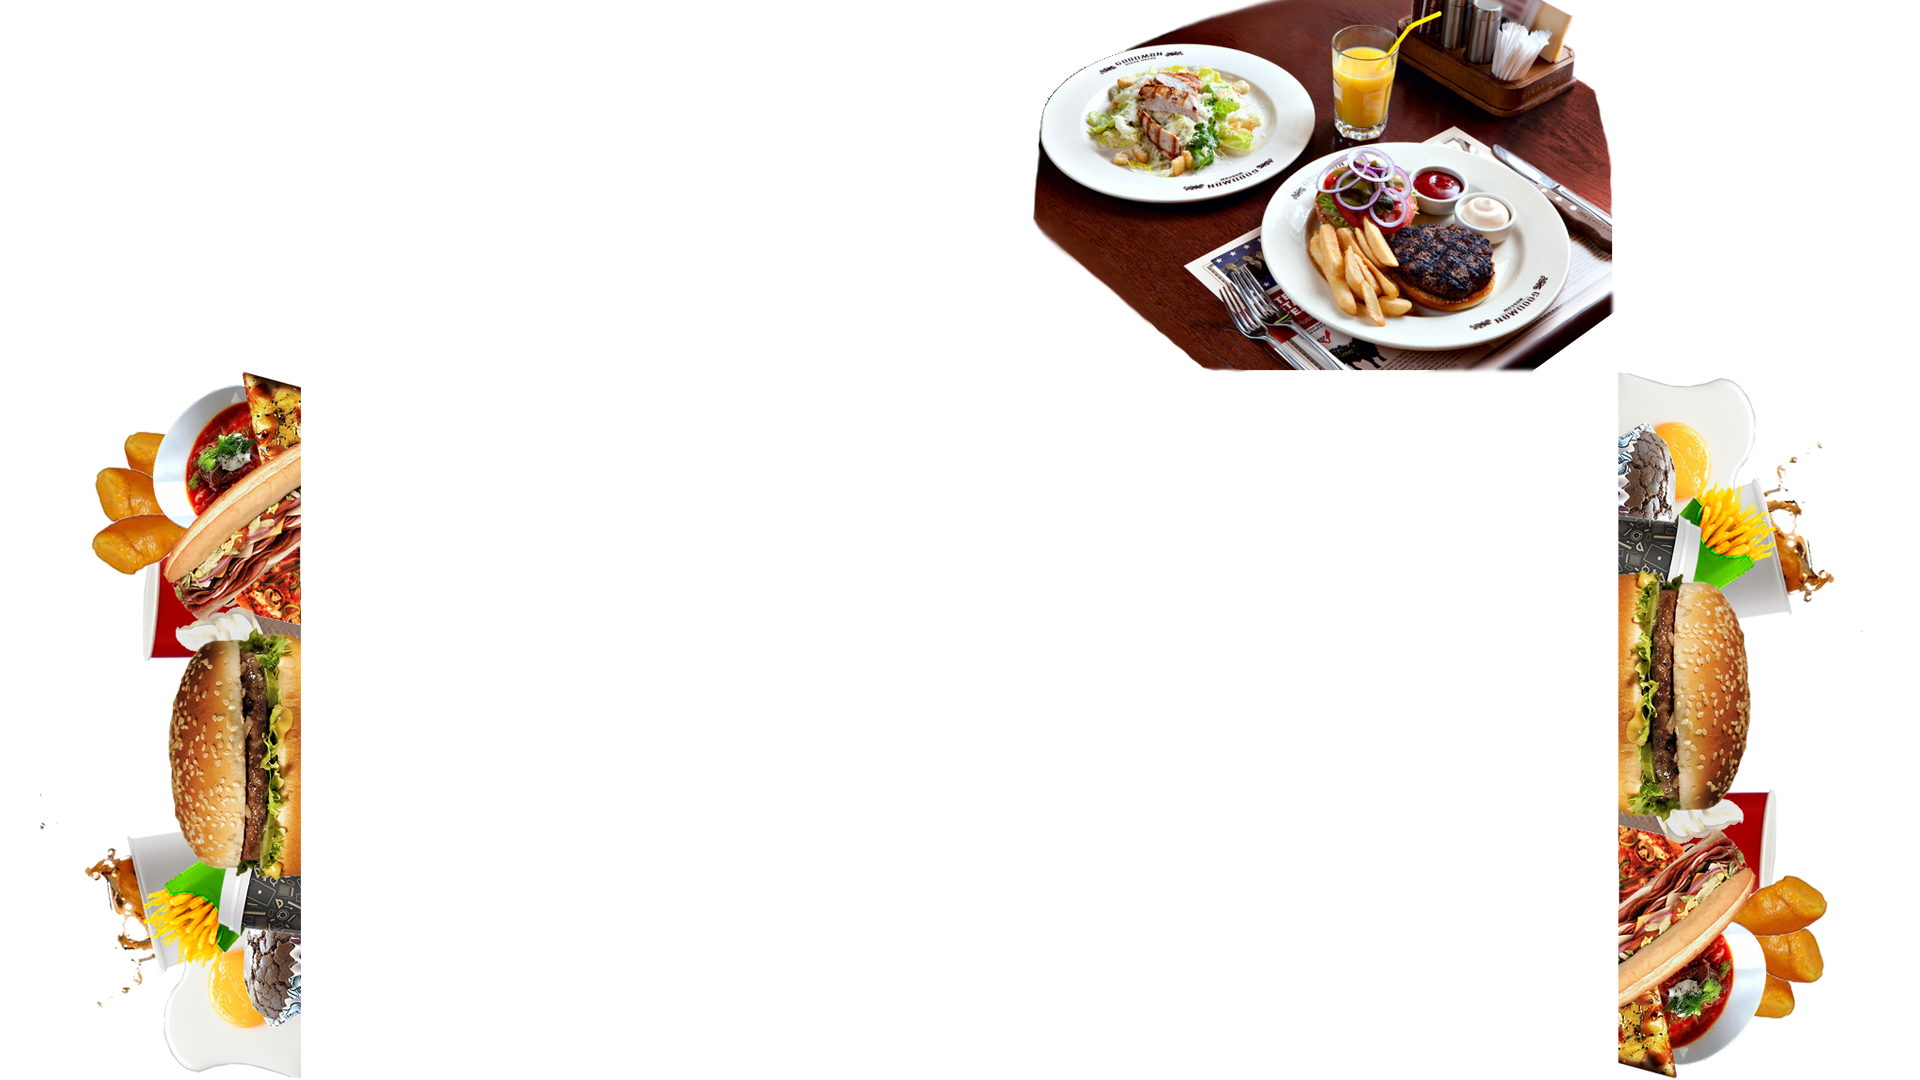
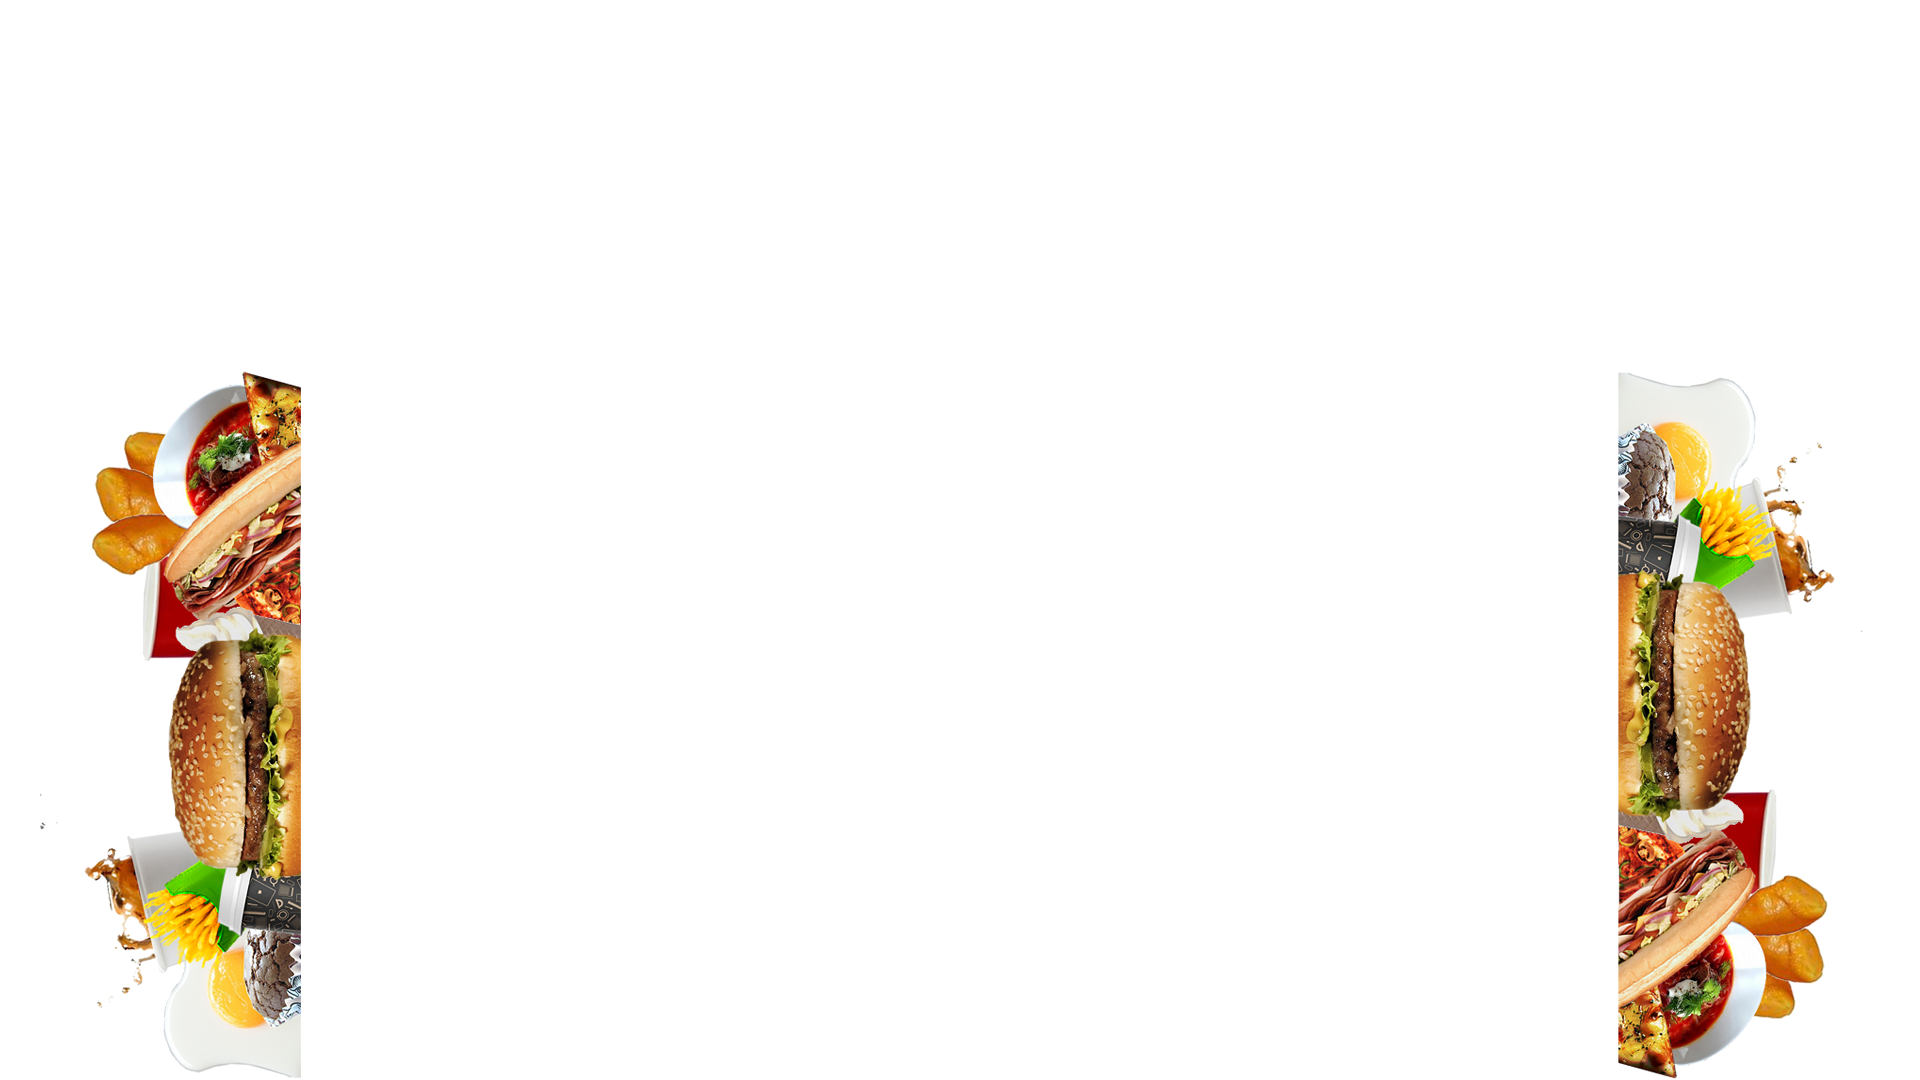
Исправлен фон и его отображение.

Changed region(s): [[0.5312, 0.0, 0.8438, 0.3667]]

diff --git a/media/css/mainCSS.css b/media/css/mainCSS.css
@@ -17,7 +17,7 @@ body{
 }
 
 /*Фоновое изображение*/
-#imgBG{
+.imgBG{
 	display:block;
 	position:absolute;
 	top:50px;
@@ -35,7 +35,7 @@ header{
 }
 
 /*Логотип*/
-#Logo{
+.Logo{
 	width: 45%;
 	height: auto;
 	position: relative;	

diff --git a/media/css/adminCSS.css b/media/css/adminCSS.css
@@ -1,6 +1,6 @@
 @CHARSET "UTF-8";
 
-#imgBG{
+#lowerBG{
 	display:none;	
 }
 

diff --git a/application/views/templates/default.php b/application/views/templates/default.php
@@ -12,7 +12,7 @@
 <header>
 	<div class="Personal"> <?php echo $user; ?></div>
 	
-	<?php echo HTML::image('media/image/MainTemplate/Logo.png', array('id' => 'Logo')); ?>  
+	<?php echo HTML::image('media/image/MainTemplate/Logo.png', array('class' => 'Logo')); ?>  
 </header>
   
 <div class="WorkArea">
@@ -30,7 +30,8 @@
  
 <footer class="Underground">Подвал</footer>
 
-<?php echo HTML::image('media/image/MainTemplate/Background.png', array('id' => 'imgBG')); ?>
+<?php echo HTML::image('media/image/MainTemplate/Background.png', array('class' => 'imgBG', 'id' => 'lowerBG')); ?>
+<?php echo HTML::image('media/image/MainTemplate/BackgroundUpper.png', array('class' => 'imgBG')); ?>
 </div>
 </body>
 </html>

diff --git a/application/views/templates/admin/users/list.php b/application/views/templates/admin/users/list.php
@@ -1,6 +1,7 @@
-<?php defined('SYSPATH') or die('No direct script access.');
+<?php defined('SYSPATH') or die('No direct script access.');?>
 
-?>
+<?php echo HTML::style('media/css/adminCSS.css');?>
+
  <h1 class="pull-left"><?php echo __('Список пользователей') ?></h1>    
         	
 <div id="container">
